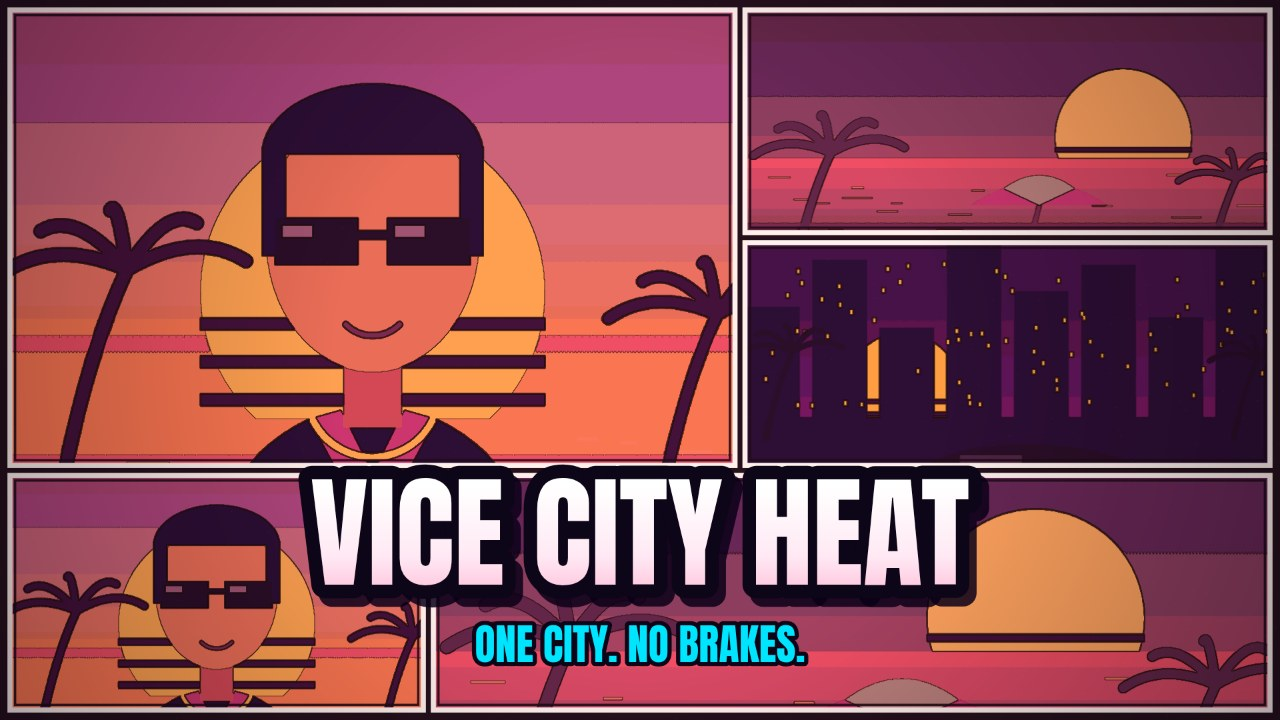
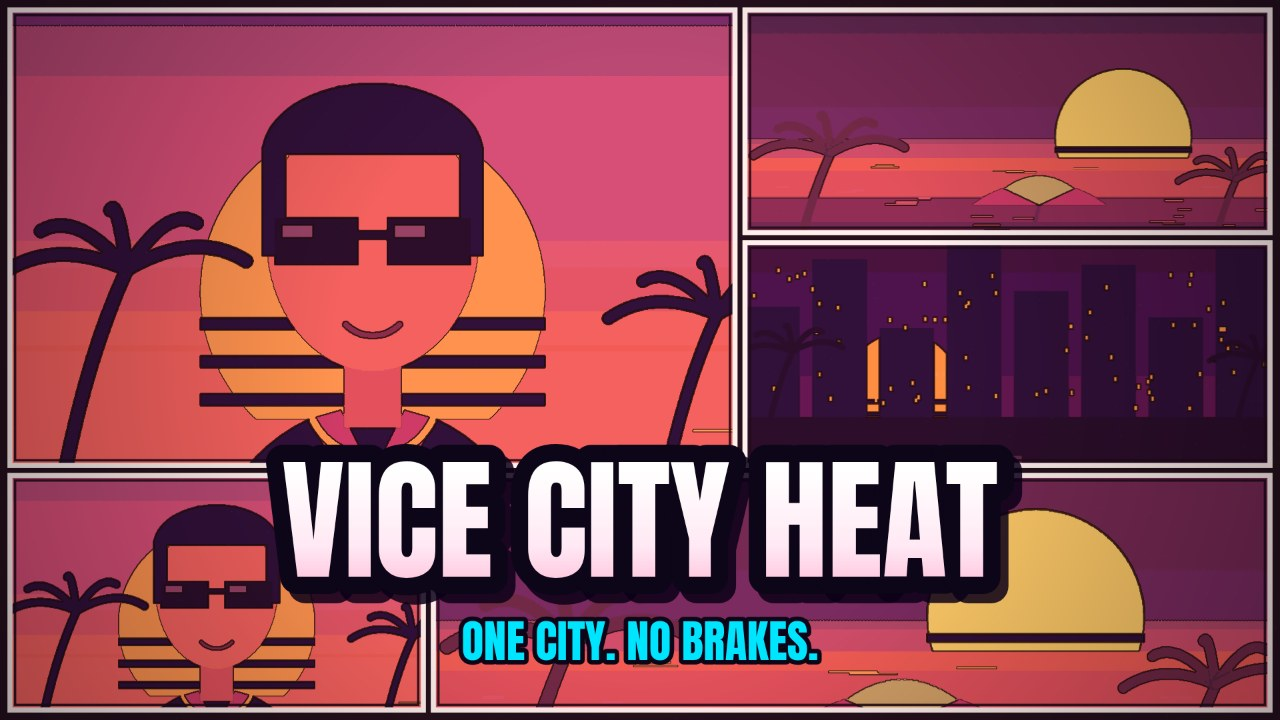
Vice Cover Studio — round 2: stronger grades, bolder caption, brighter neon

diff --git a/app/src/cover.js b/app/src/cover.js
@@ -14,7 +14,7 @@ export const GRADES = {
   },
   neon: {
     label: 'Neon Nights',
-    stops: [[0, '#02021a'], [0.3, '#14237d'], [0.55, '#8e24aa'], [0.78, '#00b8d4'], [1, '#e0f7fa']],
+    stops: [[0, '#05052e'], [0.3, '#27349e'], [0.55, '#b03ae0'], [0.78, '#00d5f5'], [1, '#e0f7fa']],
     tint: 'rgba(0,229,255,0.08)',
   },
   vice: {
@@ -93,7 +93,7 @@ function processPanel(ctx, w, h, opts) {
   const img = ctx.getImageData(0, 0, w, h);
   const d = img.data;
   const lum = new Float32Array(w * h);
-  const levels = 6;
+  const levels = 5;
   for (let i = 0, p = 0; i < d.length; i += 4, p++) {
     // posterize each channel first: flattens photo detail into poster bands
     for (let ch = 0; ch < 3; ch++) {
@@ -118,7 +118,7 @@ function processPanel(ctx, w, h, opts) {
     const l = Math.max(0, Math.min(255, Math.round(lum[p])));
     let r = lut[l * 3], gcol = lut[l * 3 + 1], b = lut[l * 3 + 2];
     // keep a slice of the posterized original hue so faces/objects stay readable
-    r = r * 0.72 + d[i] * 0.28; gcol = gcol * 0.72 + d[i + 1] * 0.28; b = b * 0.72 + d[i + 2] * 0.28;
+    r = r * 0.8 + d[i] * 0.2; gcol = gcol * 0.8 + d[i + 1] * 0.2; b = b * 0.8 + d[i + 2] * 0.2;
     const e = edge[p];
     if (e > 90) {
       const k = Math.max(0, 1 - outline * Math.min(1, (e - 90) / 160) * 0.92);
@@ -227,7 +227,7 @@ function drawCaption(ctx, w, h, state) {
     ctx.font = `400 ${Math.round(h * 0.16)}px ${family}`;
     if (ctx.measureText(caption).width > maxW || caption.length > 14) lines = best.lines;
   }
-  const size = Math.min(...lines.map((ln) => fitFont(ctx, ln, '400', Math.round(h * 0.17), maxW, family)));
+  const size = Math.min(...lines.map((ln) => fitFont(ctx, ln, '400', Math.round(h * 0.185), maxW, family)));
   const lineH = size * 1.04;
   const blockH = lineH * lines.length + (state.sub ? size * 0.52 : 0);
   const baseY = state.captionPos === 'top' ? h * 0.055 : h - h * 0.055 - blockH;
@@ -238,7 +238,7 @@ function drawCaption(ctx, w, h, state) {
     ctx.lineJoin = 'round';
     ctx.shadowColor = 'rgba(10,0,24,0.85)'; ctx.shadowBlur = 0;
     ctx.shadowOffsetX = size * 0.06; ctx.shadowOffsetY = size * 0.07;
-    ctx.lineWidth = size * 0.22; ctx.strokeStyle = '#0d0618';
+    ctx.lineWidth = size * 0.26; ctx.strokeStyle = '#0d0618';
     ctx.strokeText(ln, w / 2, y);
     ctx.shadowOffsetX = 0; ctx.shadowOffsetY = 0;
     const grad = ctx.createLinearGradient(0, y, 0, y + size);

diff --git a/app/src/demo.js b/app/src/demo.js
@@ -86,7 +86,7 @@ function portrait() {
 // Demo 2: beach panorama with boardwalk and umbrella.
 function beach() {
   const c = canvas(1000, 800), x = c.getContext('2d');
-  sky(x, 1000, 800, [[0, '#0f2027'], [0.5, '#2c5364'], [0.72, '#ff9966'], [1, '#ff5e62']]);
+  sky(x, 1000, 800, [[0, '#27606e'], [0.5, '#3d7a8c'], [0.72, '#ff9966'], [1, '#ff5e62']]);
   sun(x, 720, 430, 130, '#ffe29f');
   sea(x, 1000, 470, 170, '#ff7e5f', '#203a43');
   x.fillStyle = '#f7d08a'; x.fillRect(0, 640, 1000, 160);
@@ -109,7 +109,7 @@ function beach() {
 // Demo 3: boulevard at dusk with a low sports car silhouette.
 function boulevard() {
   const c = canvas(1000, 800), x = c.getContext('2d');
-  sky(x, 1000, 800, [[0, '#12002f'], [0.55, '#5f0a87'], [0.8, '#ff2e88'], [1, '#ff9a3d']]);
+  sky(x, 1000, 800, [[0, '#2a1152'], [0.55, '#7d1bb0'], [0.8, '#ff2e88'], [1, '#ff9a3d']]);
   sun(x, 300, 470, 110, '#ffb347');
   // skyline
   x.fillStyle = '#160b33';

diff --git a/app/src/main.js b/app/src/main.js
@@ -47,6 +47,7 @@ async function boot() {
     if (q.get('grade')) { st.grade = q.get('grade'); els.grade.value = st.grade; }
     if (q.get('pos')) { st.captionPos = q.get('pos'); els.captionPos.value = st.captionPos; }
     if (q.get('halftone') === '1') st.halftone = true;
+    if (q.get('panels')) st.panelPhoto = q.get('panels').split(',').map(Number);
     st.selectedPanel = -1;
     editor.render();
     if (q.get('shot') === 'cover') {
